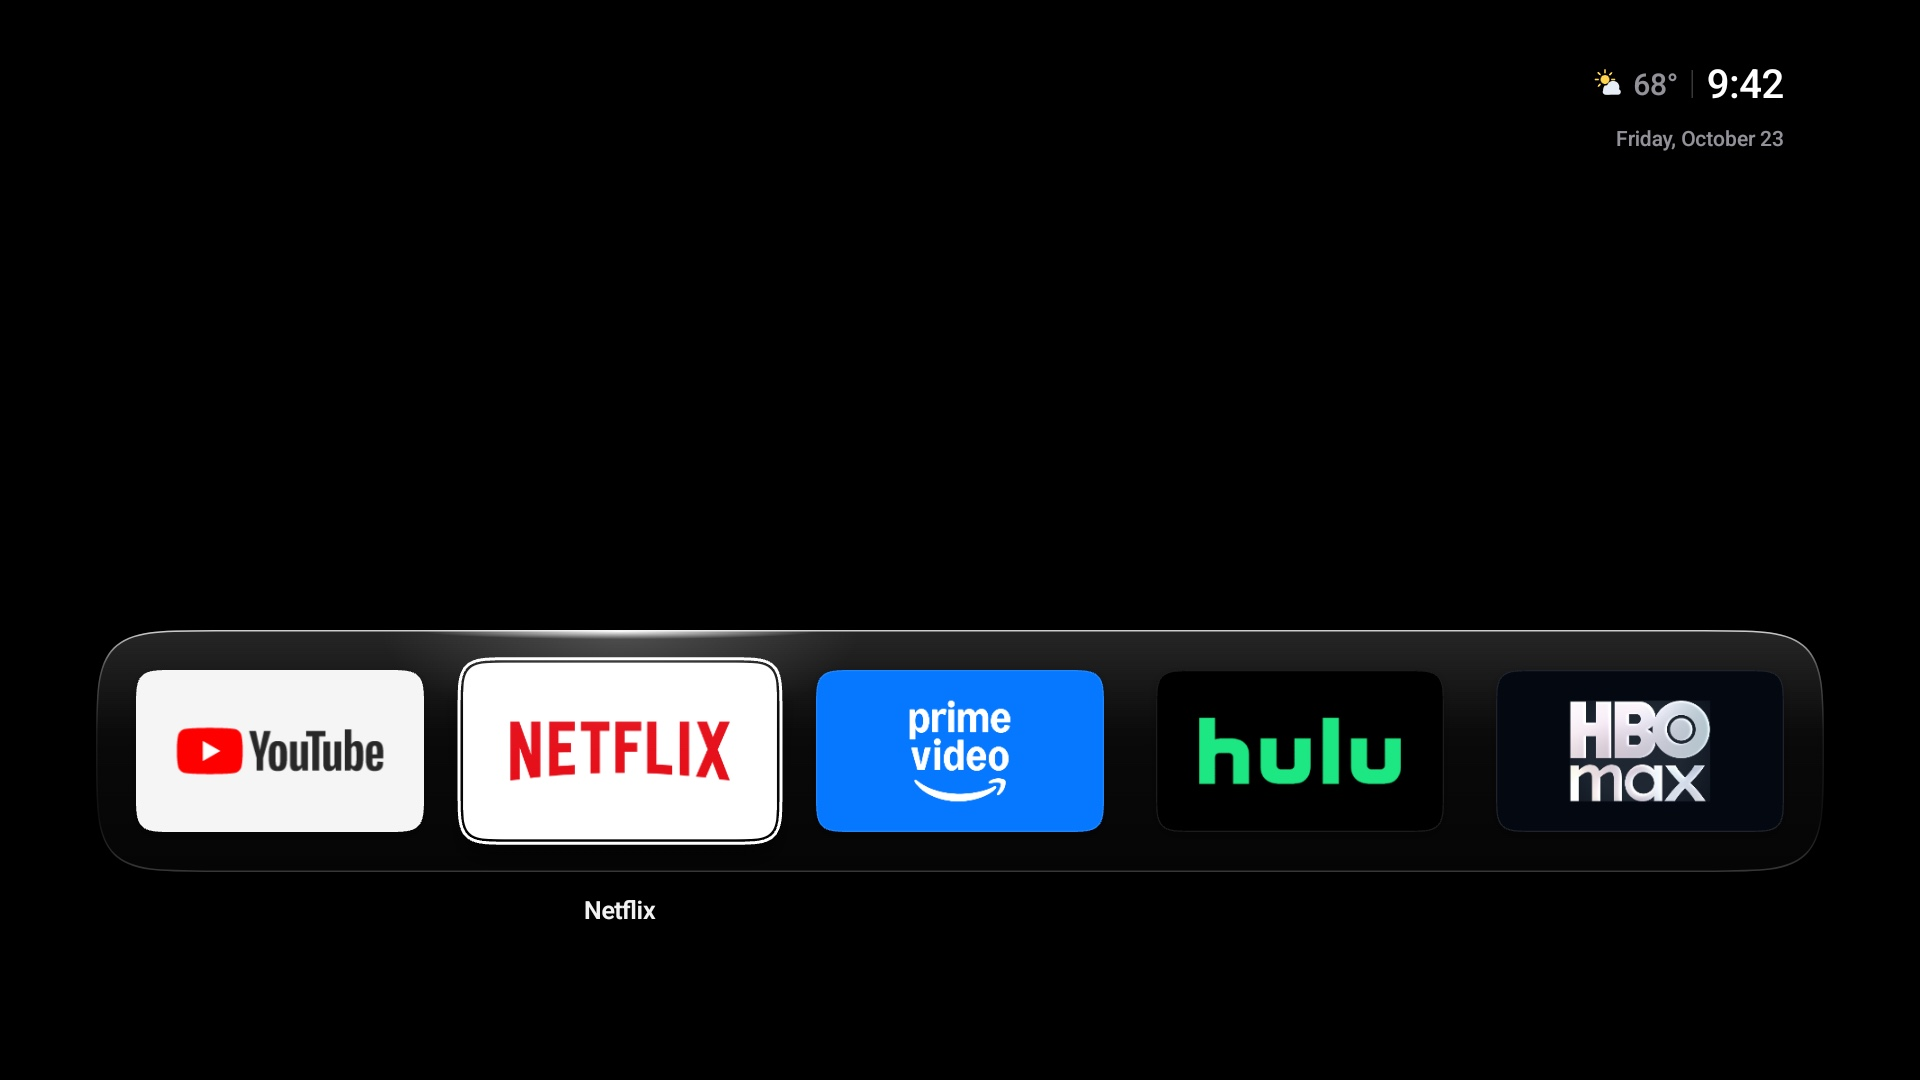
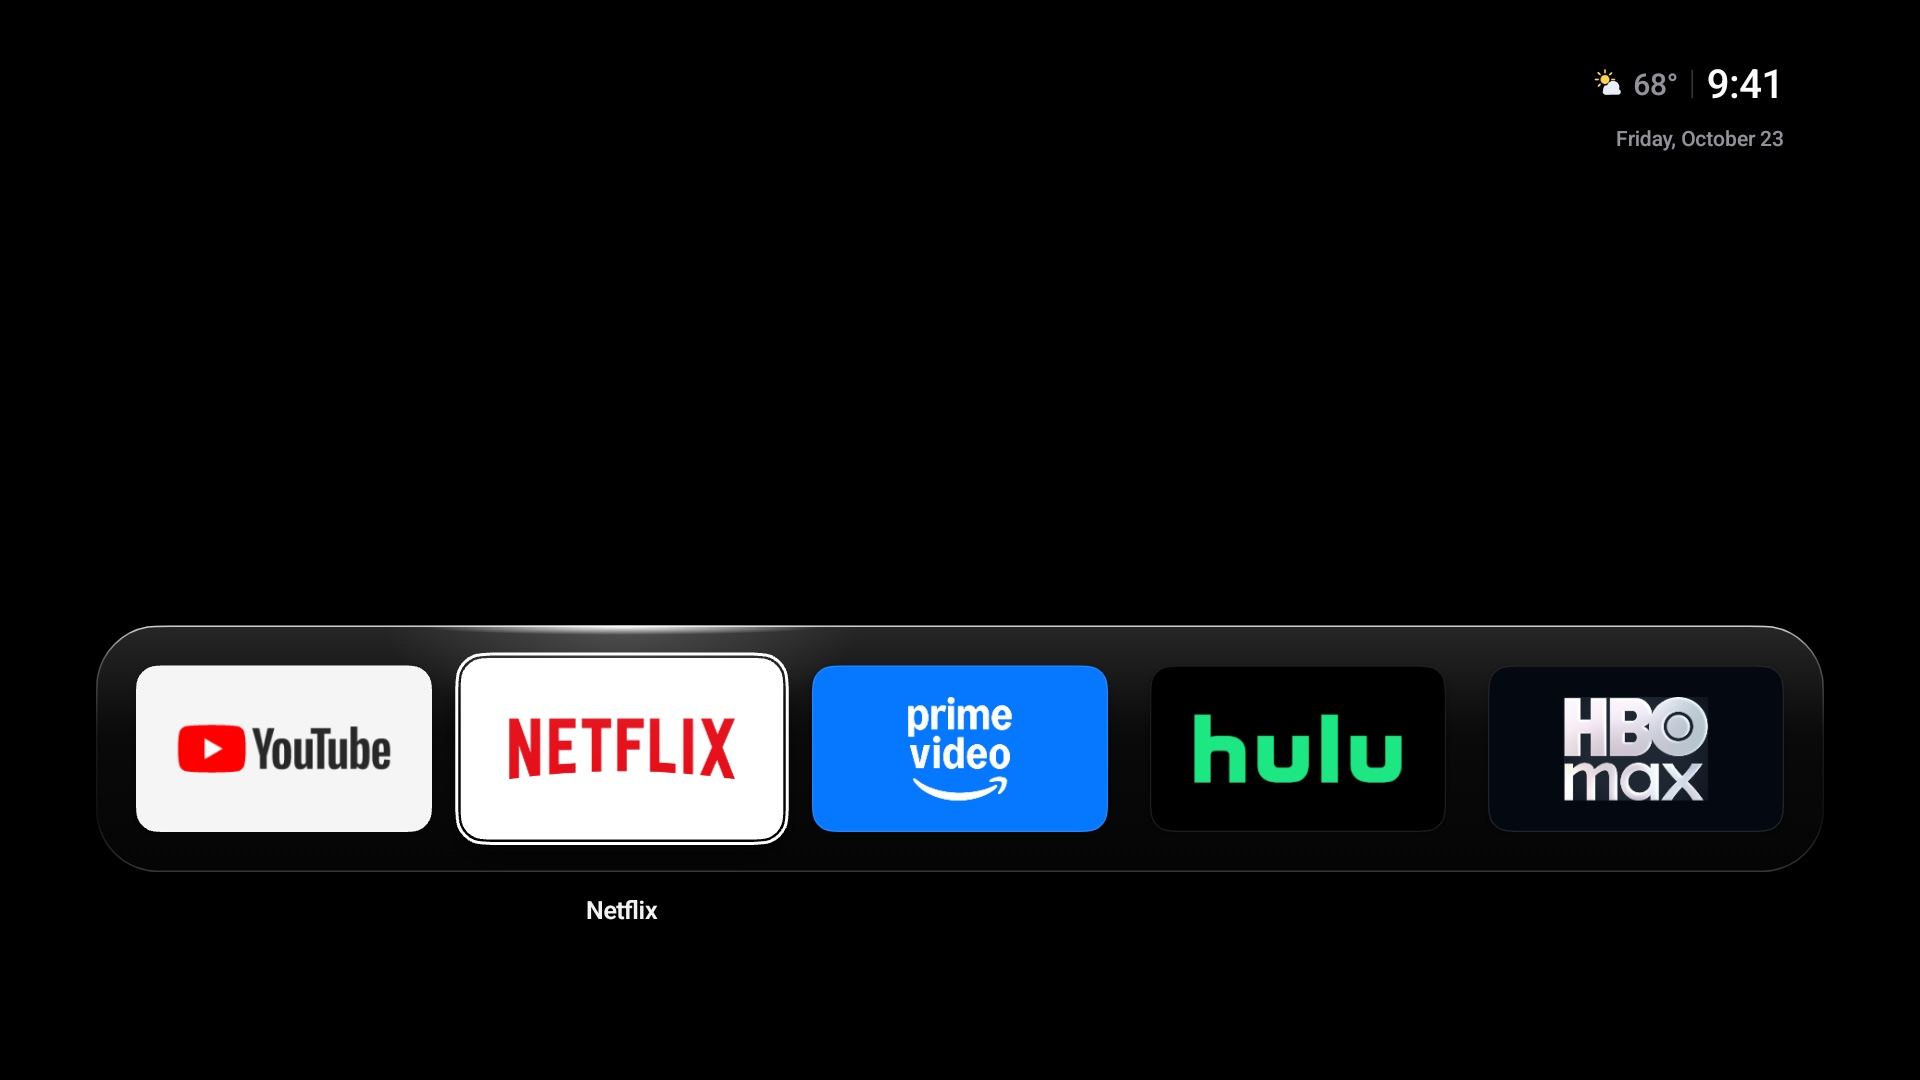
Make the corners concentric, tighten tile gaps, fix the dock highlight
Tiles and cards use Apple's 60% corner smoothing at radius 22, and the dock
and focus ring derive their smoothing so each outline runs parallel to the
one inside it. Tile gaps drop from 52 to 42 px with tiles growing to 296 px,
so five still fill the dock. Card text sits flush with the card edge, and
the All Apps hint moves to the left edge so it no longer crowds the photo
credit. The dock's highlight now keeps animating until it reaches the
focused tile instead of stopping partway.

diff --git a/app/src/dev/lumen/tv/HomeView.java b/app/src/dev/lumen/tv/HomeView.java
@@ -42,10 +42,12 @@ final class HomeView extends View implements Overlays.Host {
     }
 
     // ---- Layout (design px) ----
-    private static final float PAD = 40, GAP = 52, TILE_W = AppStore.TILE_W, TILE_H = AppStore.TILE_H;
+    private static final float PAD = 40, GAP = 42, TILE_W = AppStore.TILE_W, TILE_H = AppStore.TILE_H;
     private static final float DOCK_W = Ui.W - 2 * Ui.SAFE_X, LEFT = Ui.SAFE_X + PAD, RIGHT = Ui.W - LEFT;  // ROW_MAX tiles fill the dock exactly; text aligns to the tiles
-    private static final float R_TILE = 20, R_DOCK = R_TILE + PAD, DOCK_SMOOTH = 1, TILE_SMOOTH = 1, DOCK_BOTTOM = 872, ROW_MAX = 5;
-    private static final float CARD_W_MAX = 520, CARD_H_MAX = CARD_W_MAX * 9 / 16;
+    // Tiles and cards use Apple's 60% corner smoothing; the dock's outline is the tiles' outline grown by PAD
+    private static final float R_TILE = 22, TILE_SMOOTH = .6f, R_DOCK = R_TILE + PAD, DOCK_SMOOTH = concentric(R_TILE, TILE_SMOOTH, PAD);
+    private static final float DOCK_BOTTOM = 872, ROW_MAX = 5;
+    private static final float CARD_W_MAX = 522, CARD_H_MAX = CARD_W_MAX * 9 / 16;
     private float cardW, cardH, shelfTop, cardTop;  // set by layoutShelf() from the Card size setting
     private static final float GRID_TOP = 1018, GRID_STEP_Y = TILE_H + 84, APPS_SHIFT = 540;
     private static final long HEARTBEAT_MS = 3400;
@@ -147,7 +149,7 @@ final class HomeView extends View implements Overlays.Host {
         labelDimP = Ui.text(Ui.medium, 23, Ui.TEXT_2, -.01f);
         labelDimP.setTextAlign(Paint.Align.CENTER);
         hintP = Ui.text(Ui.medium, 20, Ui.TEXT_3, 0);
-        hintP.setTextAlign(Paint.Align.CENTER);
+        hintP.setTextAlign(Paint.Align.LEFT);
         gridHeadP = Ui.text(Ui.semibold, 26, Ui.TEXT_2, -.02f);
         nameP = Ui.text(Ui.semibold, 23, Ui.TEXT, -.015f);
         nameP.setTextAlign(Paint.Align.CENTER);
@@ -714,7 +716,7 @@ final class HomeView extends View implements Overlays.Host {
     private void drawCredit(Canvas c, float appsT) {
         if (photoCredit == null || appsT > .99f) return;
         creditP.setAlpha(Math.round(Color.alpha(Ui.TEXT_3) * (1 - appsT)));
-        c.drawText(photoCredit, RIGHT, Ui.H - 38, creditP);
+        c.drawText(ellipsize(photoCredit, creditP, RIGHT - LEFT - HINT_ROOM), RIGHT, Ui.H - 38, creditP);  // clears the All Apps hint
     }
 
     private void drawTopBar(Canvas c) {
@@ -820,6 +822,15 @@ final class HomeView extends View implements Overlays.Host {
     /** The first recommendation card shares the first favorite tile's leading edge. */
     private float shelfLeft() { return LEFT; }
 
+    /** Bottom row: the All Apps hint on the left edge, the photo credit on the right, never overlapping. */
+    private static final float HINT_ROOM = 200;
+
+    /**
+     * Smoothing for a corner `pad` outside one of radius r and smoothing s, so the outer curve begins exactly `pad`
+     * further along the edge (where the inner one's offset does) and the two outlines stay parallel.
+     */
+    private static float concentric(float r, float s, float pad) { return ((1 + s) * r + pad) / (r + pad) - 1; }
+
     private void drawCard(Canvas c, ShelfStore.Item it, float x, float y, int alpha) {
         float f = focusOf(it), sc = (reduced() ? 1 : 1 + .07f * f) * heartbeatScale(f);
         float cx = x + cardW / 2, cy = y + cardH / 2, w = cardW * sc, h = cardH * sc;
@@ -850,11 +861,11 @@ final class HomeView extends View implements Overlays.Host {
         if (prefs.is(Prefs.CARD_TEXT, "none")) return;
         float ty = y + cardH + 34 + 8 * f;
         titleP.setAlpha(Math.round(Color.alpha(Ui.TEXT) * alpha / 255f));
-        c.drawText(ellipsize(it.title, titleP, cardW - 8), x + 4, ty, titleP);
+        c.drawText(ellipsize(it.title, titleP, cardW), x, ty, titleP);
         if (prefs.is(Prefs.CARD_TEXT, "details") && it.line != null && !it.line.isEmpty()) {
             metaP.setColor(Ui.mix(Ui.TEXT_2, Ui.TEXT, f * .5f));
             metaP.setAlpha(Math.round(Color.alpha(metaP.getColor()) * alpha / 255f));
-            c.drawText(ellipsize(it.line, metaP, cardW - 8), x + 4, ty + 28, metaP);
+            c.drawText(ellipsize(it.line, metaP, cardW), x, ty + 28, metaP);
         }
     }
 
@@ -904,6 +915,7 @@ final class HomeView extends View implements Overlays.Host {
         rim(c, dock, R_DOCK, DOCK_SMOOTH, 1);
         spec.target = focusedIdx >= 0 && !row.isEmpty() ? x0 + focusedIdx * (TILE_W + GAP) + TILE_W / 2 : l + dockW / 2;
         if (spec.x == 0) spec.at(spec.target);
+        if (spec.x != spec.target || spec.v != 0) postInvalidateOnAnimation();  // the target is set after step(), so keep frames coming
         float specA = 1 - .65f * appsT;
         glow(c, dock, R_DOCK, DOCK_SMOOTH, spec.x, t + dockH * .006f, 198, dockH * .032f, Math.round(242 * specA));
         glow(c, dock, R_DOCK, DOCK_SMOOTH, spec.x, t, 239, dockH * .42f, Math.round(51 * specA));
@@ -985,7 +997,7 @@ final class HomeView extends View implements Overlays.Host {
             stroke.setStrokeWidth(3);
             stroke.setColor(Color.argb(Math.round(255 * focused), 255, 255, 255));
             rimRect.set(rr.left - 4, rr.top - 4, rr.right + 4, rr.bottom + 4);
-            rrect(c, rimRect, radius + 4, TILE_SMOOTH, stroke);
+            rrect(c, rimRect, radius + 4, concentric(radius, TILE_SMOOTH, 4), stroke);
         }
         stroke.setStrokeWidth(1.2f);
         stroke.setAlpha(255);
@@ -1050,12 +1062,12 @@ final class HomeView extends View implements Overlays.Host {
         if (a <= 0) return;
         hintP.setAlpha(Math.round(Color.alpha(Ui.TEXT_3) * a));
         float y = Ui.H - 38;
-        c.drawText("All Apps", Ui.W / 2 + 14, y, hintP);
+        c.drawText("All Apps", LEFT + 22, y, hintP);
         stroke.setShader(null);
         stroke.setStrokeWidth(2.2f);
         stroke.setStrokeCap(Paint.Cap.ROUND);
         stroke.setColor(Ui.withAlpha(Ui.TEXT_3, a));
-        float hx = Ui.W / 2 - hintP.measureText("All Apps") / 2 - 4, hy = y - 8;
+        float hx = LEFT + 6, hy = y - 8;
         c.drawLine(hx - 6, hy - 3, hx, hy + 3, stroke);
         c.drawLine(hx, hy + 3, hx + 6, hy - 3, stroke);
         if (idle < 4.7f) postInvalidateDelayed(120);  // fade it out, then stop drawing

diff --git a/app/src/dev/lumen/tv/AppStore.java b/app/src/dev/lumen/tv/AppStore.java
@@ -47,7 +47,7 @@ final class AppStore {
             "com.disney.disneyplus", "com.hulu.livingroomplus", "com.wbd.stream", "com.plexapp.android", "com.peacocktv.peacockandroid", "com.cbs.ott",
             "tv.pluto.android", "com.spotify.tv.android");
     private static final int DEFAULT_ROW = 5;
-    static final float TILE_W = 288, TILE_H = 162;
+    static final float TILE_W = 296, TILE_H = TILE_W * 9 / 16;  // five fill the dock with 42 px gaps
 
     final List<App> all = new ArrayList<>();     // visible apps
     final List<App> hidden = new ArrayList<>();  // hidden from Lumen (still installed)

diff --git a/docs/design/DESIGN.md b/docs/design/DESIGN.md
@@ -41,9 +41,9 @@ a browser. The arrow keys act as the D-pad, Enter as OK (hold it for the tile me
 | Safe area | 96 px left/right, 64 px top/bottom (TV overscan); content aligns to x = 185 px |
 | Clock | Top-right, its right edge (and the date's) on the dock tiles' right edge, 40 px, Inter Medium, −2% tracking, tabular figures, 95% white. Optional date below, 21 px, 62% white |
 | Weather | Left of the clock, separated by a 1.5 px hairline: a color glyph (34 px) and the temperature, 30 px Medium, 62% white |
-| Top Shelf | Heading at y = 262 px: **Top Picks for You**, 25 px SemiBold, then “across your apps” in 62% white. Cards span the dock's tile columns, so the first card aligns with the first tile: Standard 4 across (373×210 px), Compact 5, Large 3; radius 20, gap 52, with the episode/time line |
-| Dock | Glass (see Materials), full width between the 96 px overscan margins, bottom edge at 81% of screen height. Padding 40 px, tile gap 52 px, so five tiles fill it exactly; radius 60 px = tile radius + padding, so the curves are concentric. Its corners use fully smoothed (Figma 100%) squircles that ease in over 2× the radius. App tiles and Top Shelf cards (radius 20) use the same full smoothing, as do their focus rings. Everything shares the dock's edges: text ends on the tiles' outer edge and Top Shelf cards are clipped to the dock's width |
-| Tiles | 16:9, radius 20 px. Medium 288×162 px (default, five across), Small 232×130 (six), Large 376×211 (four) |
+| Top Shelf | Heading at y = 262 px: **Top Picks for You**, 25 px SemiBold, then “across your apps” in 62% white. Cards span the dock's tile columns, so the first card aligns with the first tile: Standard 4 across (380×214 px), Compact 5 (exactly over the tiles), Large 3; radius 22, gap 42, with the episode/time line set flush with the card's left edge |
+| Dock | Glass (see Materials), full width between the 96 px overscan margins, bottom edge at 81% of screen height. Padding 40 px, tile gap 42 px, so five tiles fill it exactly. Tiles and cards use Apple's 60% corner smoothing; the dock (radius 62 = tile radius + padding) and the focus ring take whatever smoothing makes their corners begin exactly a padding further along the edge, so every outline runs parallel to the one inside it. Everything shares the dock's edges: the shelf, grid and All Apps hint start on the tiles' left edge; the clock, date and photo credit end on their right edge; Top Shelf cards are clipped to the dock's width |
+| Tiles | 16:9, radius 22 px. Medium 296×166.5 px (default, five across), Small 232×130 (six), Large 376×211 (four) |
 | Focus | A crisp white 3 px focus ring, with a 2.5 px gap and no glow or dark edge on apps and recommendation cards, plus scale 1.09 (cards 1.07) over 240 ms, deep soft shadow and a low-contrast, static top-light sheen. Focused tiles and cards add a softly eased 0.4% double-beat pulse every 3.4 s; it starts only after D-pad navigation. Home restores stable focus by app/content identity at rest, without a zoom replay or entry pulse. Focus springs are critically damped. Reduced motion and open menus pause it. The dock's specular highlight slides to sit above the focused tile |
 | Label | Focused tile only (default). 25 px SemiBold, 22 px under the dock |
 | Legibility | A dark vignette behind the clock and along the bottom, plus a soft band behind the shelf that strengthens on bright daytime scenes. During the All Apps scroll, the clock, weather and date lift up and fade out (fade only with Reduced motion) and a pre-blurred gradient darkens the top edge above the moving dock |
